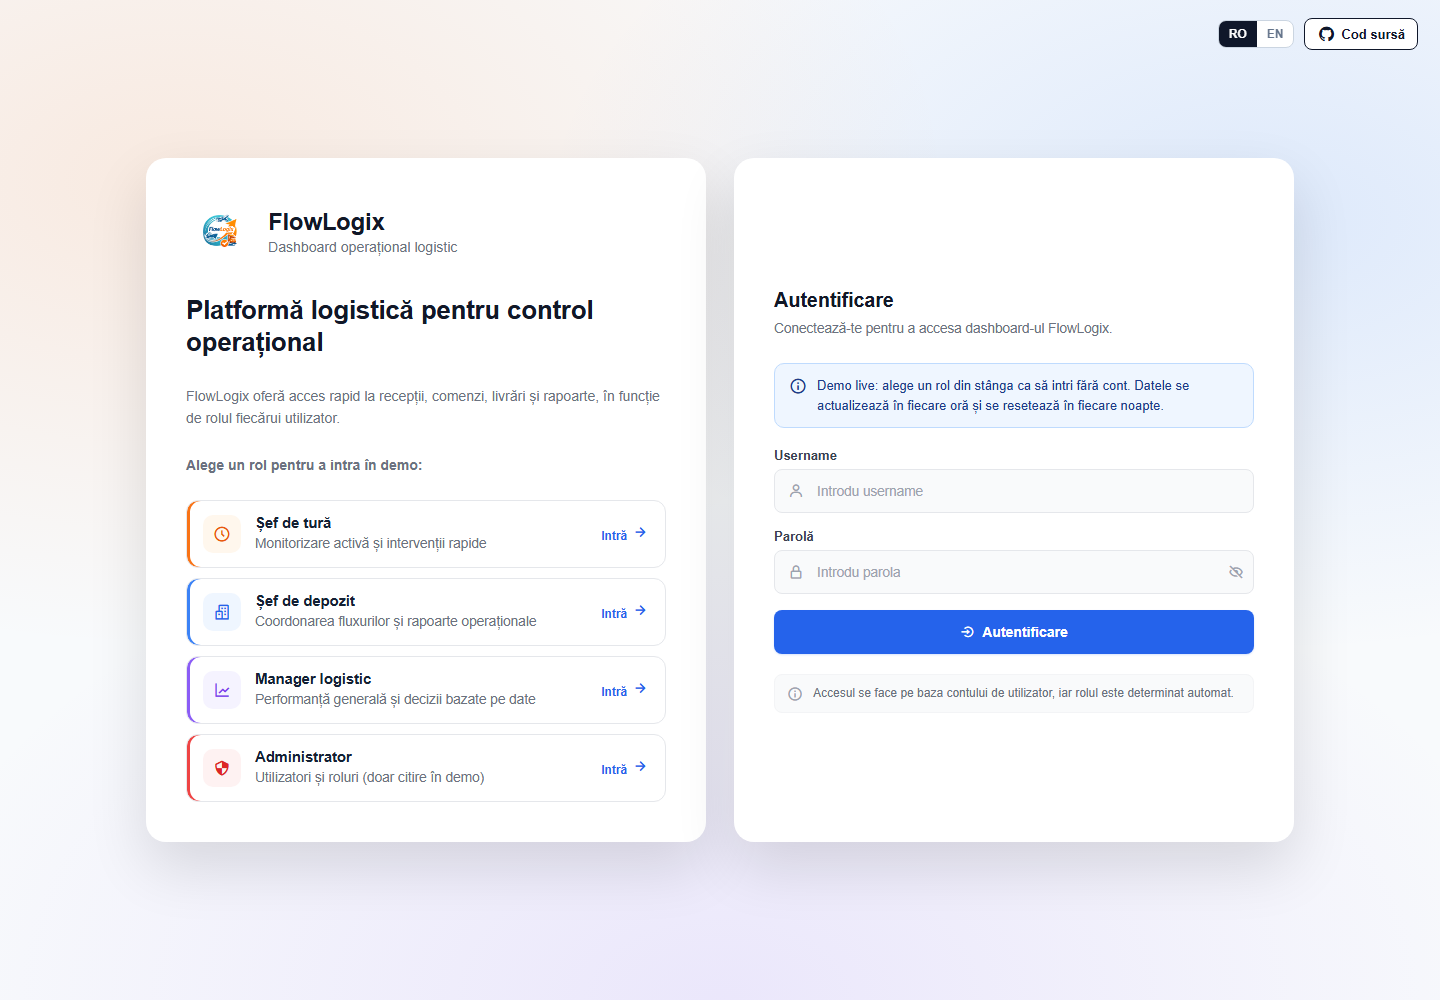
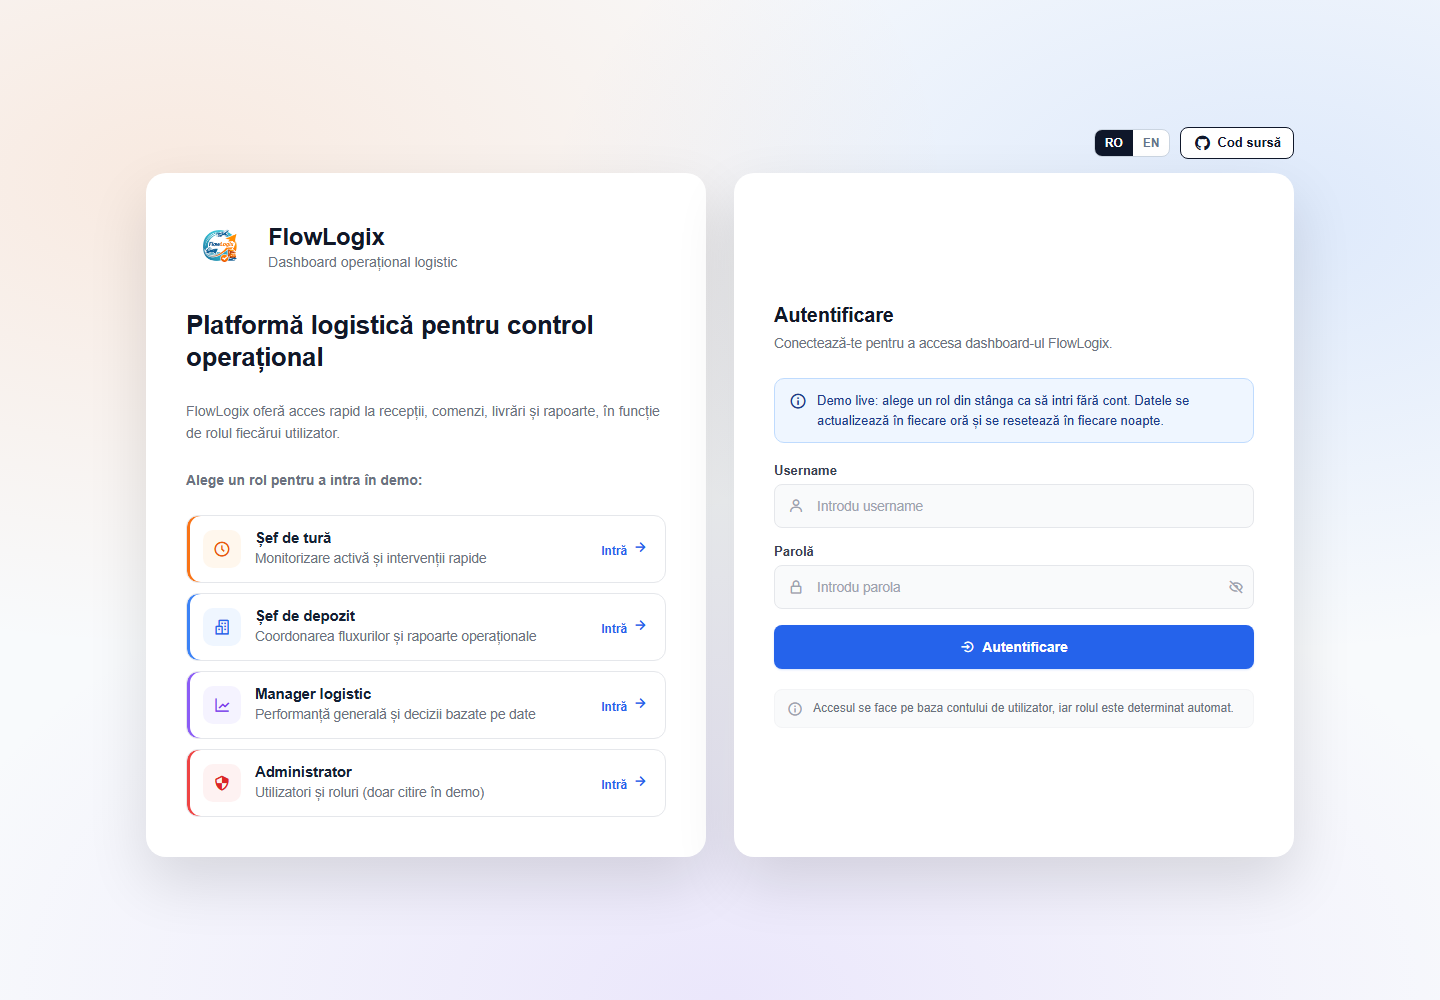
Keep the language switch and source link in the page flow
The bar was position: fixed and floated over the page while scrolling.
It now sits above the right-hand card, aligned with it, and scrolls
with the rest of the page.

diff --git a/login.php b/login.php
@@ -190,15 +190,25 @@ if ($demoEnabled) {
       color: #dc2626;
     }
 
+    /* ── Page shell: the top bar sits above the cards and scrolls with the page ── */
+    .login-shell {
+      width: 100%;
+      max-width: 1196px;
+      display: flex;
+      flex-direction: column;
+    }
+
     /* ── Top-right bar: language switch + source code ── */
     .login-topbar {
-      position: fixed;
-      top: 18px;
-      right: 22px;
       display: flex;
+      justify-content: flex-end;
       align-items: center;
       gap: 10px;
-      z-index: 10;
+      padding: 24px 24px 0;
+    }
+
+    .login-topbar + .login-container {
+      padding-top: 14px;
     }
 
     .lang-switch {
@@ -294,14 +304,13 @@ if ($demoEnabled) {
         min-height: auto;
       }
       .login-topbar {
-        position: static;
-        justify-content: flex-end;
         padding: 12px 16px 0;
       }
     }
   </style>
 </head>
 <body class="login-body">
+  <div class="login-shell">
 
   <?php if ($demoEnabled): ?>
   <div class="login-topbar">
@@ -453,6 +462,8 @@ if ($demoEnabled) {
         </div>
       </div>
     </div>
+  </div>
+
   </div>
 
   <script>
